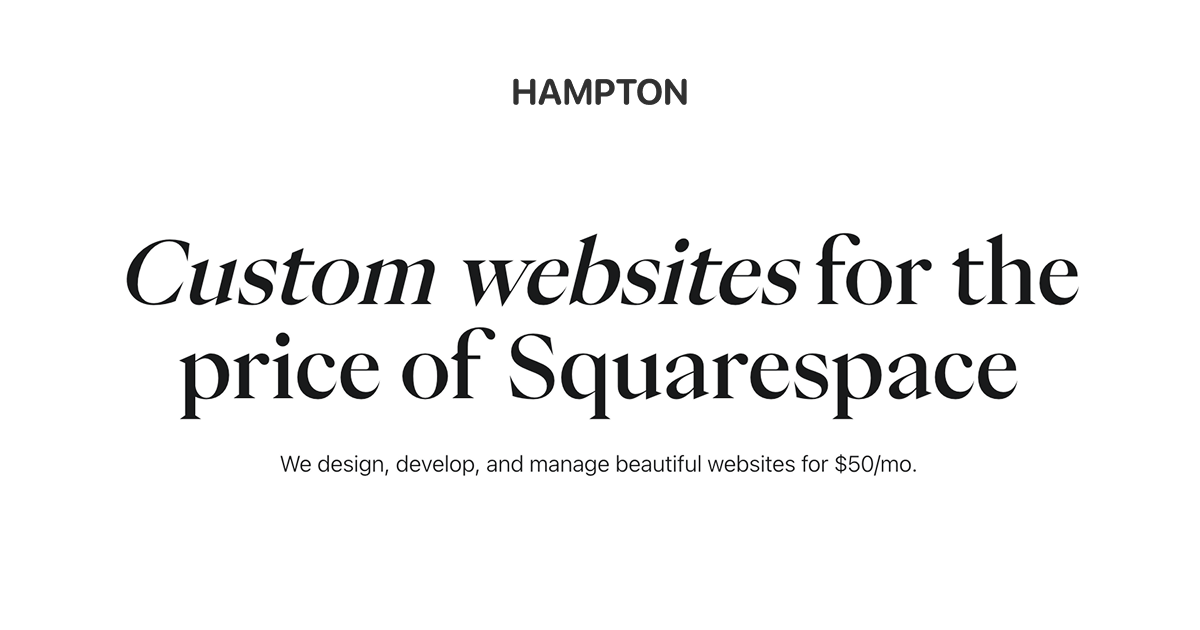
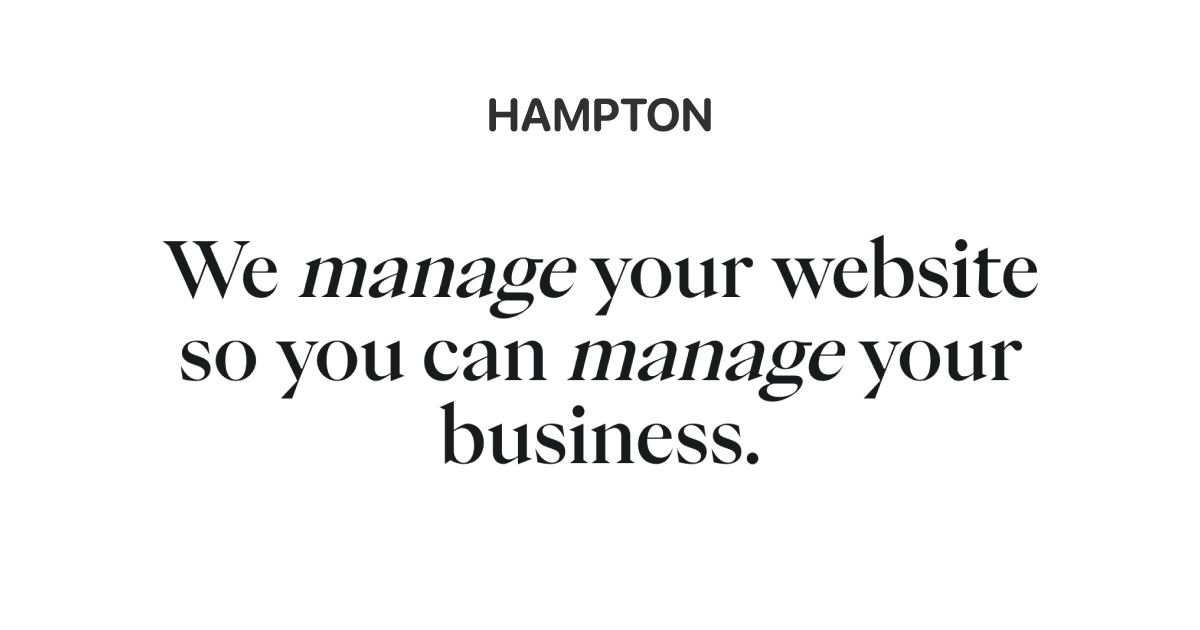
Changed hero tagline and added customer support for pricing

Changed region(s): [[0.0925, 0.3619, 0.8942, 0.754], [0.4008, 0.1206, 0.6167, 0.2111]]

diff --git a/pricing/index.html b/pricing/index.html
@@ -6,7 +6,7 @@
     <meta name="apple-mobile-web-app-capable" content="yes" />
     <meta name="mobile-web-app-capable" content="yes" />
     <meta name="csrf-param" content="authenticity_token" />
-<meta name="csrf-token" content="S2xmMoQnt_stUf-9kZmPPVa-eVsJvmgjcbvlzsvu4oaV_SELXUwGCXdXjbruKL-HJwyS9ebVeuv5M-tp6xKF0Q" />
+<meta name="csrf-token" content="37lB9Zfh4hZKuclO_3GORtvpP3hmvATJKPr3Q98H45YRuCckw2XWqM9uFYP55rZqSGQOmyc1duFS4FY6zb11Dg" />
     
     <meta name="title" content="Hampton Lab: Custom websites for the price of Squarespace" />
     <meta name="description" content="We design, develop, and manage beautiful websites for $50/mo." />
@@ -156,6 +156,7 @@
           <li class="process-card__description"><strong>High end</strong> custom website design and development</li>
           <li class="process-card__description">Fixed price with no surprise charges</li>
           <li class="process-card__description">Hosting for as long as the internet exists</li>
+          <li class="process-card__description">Your personal support engineer</li>
           <li class="process-card__description"><strong>Custom logo</strong>, if needed</li>
           <li class="process-card__description"><strong>Free code export</strong></li>
           <li class="process-card__description"><strong>30</strong> changes a month</li>
@@ -173,6 +174,7 @@
         <ul class="pricing-card__list">
           <li class="process-card__description">Custom website design and development</li>
           <li class="process-card__description">Fixed price with no surprise charges</li>
+          <li class="process-card__description">Your personal support engineer</li>
           <li class="process-card__description">Hosting for as long as the internet exists</li>
           <li class="process-card__description">10 changes a month</li>
           <p class="pricing-card__description"><i>*Domain name fee not covered (usually $1/mo)</i></p>

diff --git a/index.html b/index.html
@@ -6,7 +6,7 @@
     <meta name="apple-mobile-web-app-capable" content="yes" />
     <meta name="mobile-web-app-capable" content="yes" />
     <meta name="csrf-param" content="authenticity_token" />
-<meta name="csrf-token" content="tarmULx3tLvDZDxV3NMH8aKBQWqFkHa-ZnUwFdZjvdBrO6FpZRwFSZliTlKjYjdL0zOqxGr7ZHbu_T6y9p_ahw" />
+<meta name="csrf-token" content="VDOjrNlolpryuGc788CMQoJNNaDN08iVM-moPPlF0DSaMsV9jeyiJHdvu_b1V7RuEcAEQ4xaur1J8wlF6_9GrA" />
     
     <meta name="title" content="Hampton Lab: Custom websites for the price of Squarespace" />
     <meta name="description" content="We design, develop, and manage beautiful websites for $50/mo." />
@@ -131,8 +131,13 @@
 <!-- END app/views/header/_nav.html.erb -->
 <main>
   <section class="hero">
-    <h1 class="text-center"><i>Custom websites</i> for the price of Squarespace</h1>
-    <p class="text-center">We design, develop, and manage beautiful websites for $50/mo.</p>
+    <!-- <h1 class="text-center"><i>Custom websites</i> for the price of Squarespace</h1> -->
+    <h1 class="text-center">We <i>manage</i> your website so you can <i>manage</i> your business.</h1>
+    <p class="text-center">
+      We design, develop, and manage beautiful websites for $25/mo.
+      <br />
+      All website revisions are done in under a week.
+    </p>
     <a class="btn btn--large" href="index.html#projects">Explore &#8595;</a>
   </section>
 

diff --git a/founder_letter/index.html b/founder_letter/index.html
@@ -6,7 +6,7 @@
     <meta name="apple-mobile-web-app-capable" content="yes" />
     <meta name="mobile-web-app-capable" content="yes" />
     <meta name="csrf-param" content="authenticity_token" />
-<meta name="csrf-token" content="3-TMv_QeyerLgan2ikfIf0PfsOUIyW8j3pypDymp_uMBdYuGLXV4GJGH2_H19vjFMm1bS-eifetWFKeoCVWZtA" />
+<meta name="csrf-token" content="VnyNbpH7FAjNM9lNfibW4DTrHPpNgRf8R07VMH22ZWiYfeu_xX8gtkjkBYB4se7Mp2YtGQwIZdQ9VHRJbwzz8A" />
     
     <meta name="title" content="Hampton Lab: Custom websites for the price of Squarespace" />
     <meta name="description" content="We design, develop, and manage beautiful websites for $50/mo." />

diff --git a/process/index.html b/process/index.html
@@ -6,7 +6,7 @@
     <meta name="apple-mobile-web-app-capable" content="yes" />
     <meta name="mobile-web-app-capable" content="yes" />
     <meta name="csrf-param" content="authenticity_token" />
-<meta name="csrf-token" content="QH-ajfojbKUMEKkMvSQldwORu0HHPoiFuXOhYi9Ry7-e7t20I0jdV1YW2wvClRXNciNQ7yhVmk0x-6_FD62s6A" />
+<meta name="csrf-token" content="9-Ad2zrrxfw0WZegmDNsk68bnUBgAN_5JGhWVK_0-Kw54XsKbm_xQrGOS22epFS_PJasoyGJrdFecvctvU5uNA" />
     
     <meta name="title" content="Hampton Lab: Custom websites for the price of Squarespace" />
     <meta name="description" content="We design, develop, and manage beautiful websites for $50/mo." />
